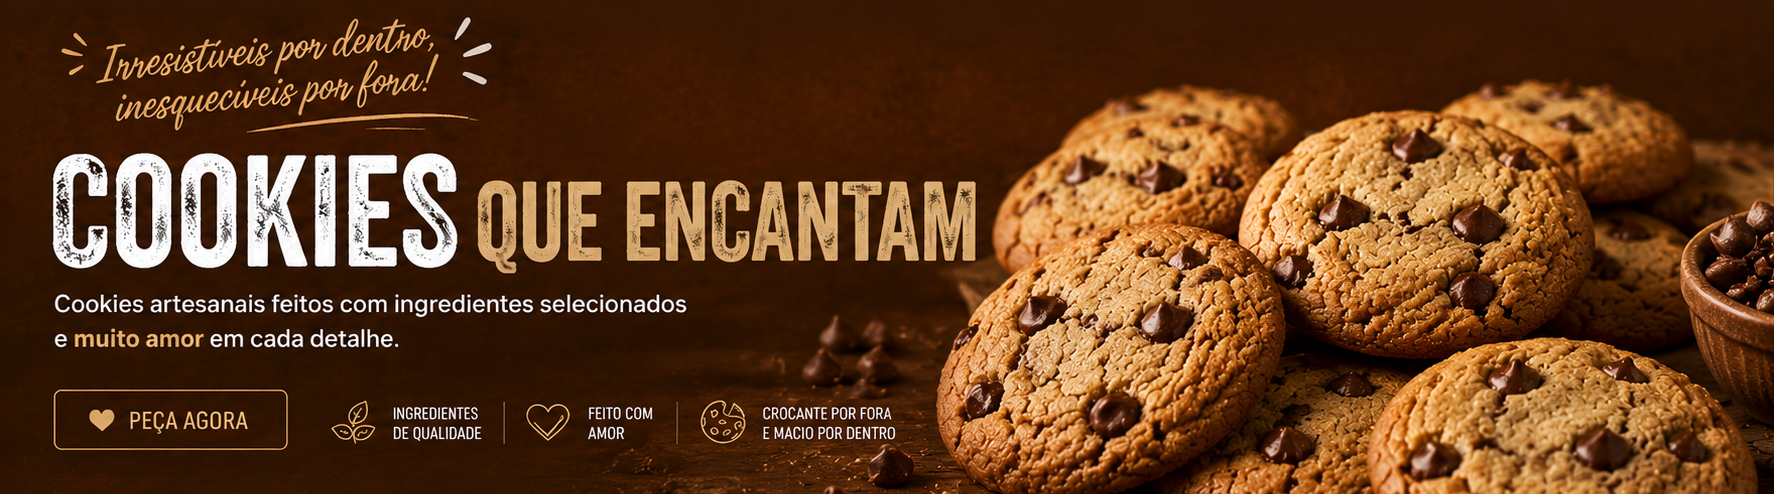
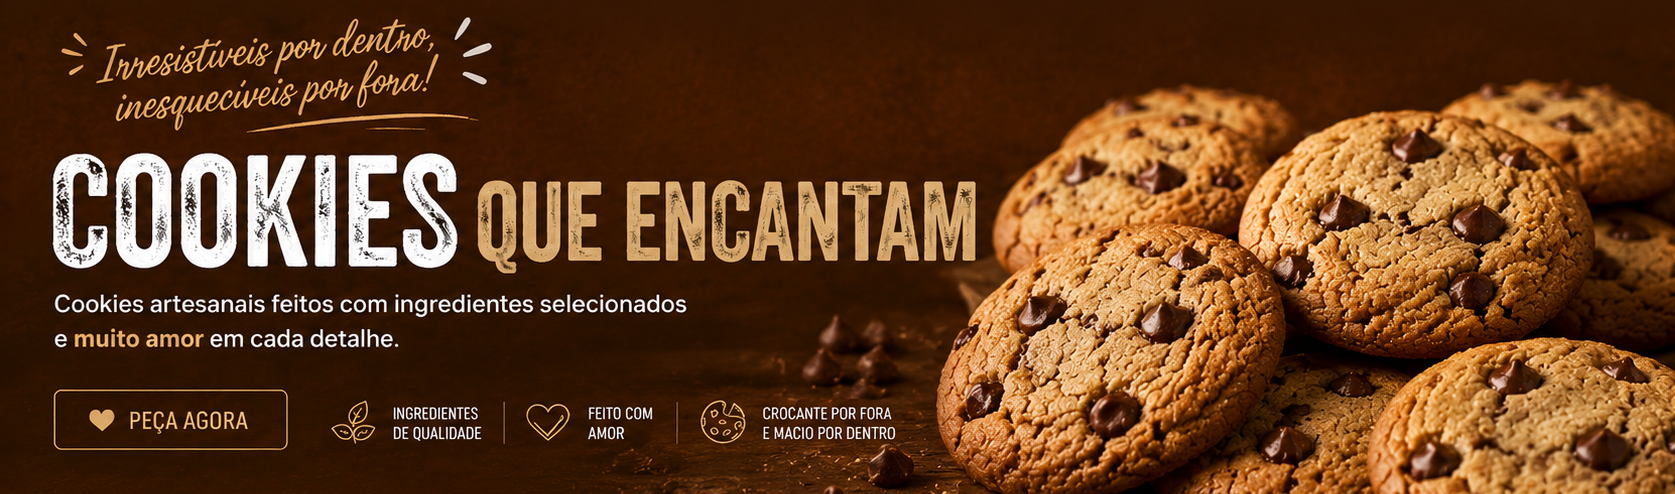
arrumei muita coisa vei

diff --git a/produtos.html b/produtos.html
@@ -21,7 +21,6 @@
             <nav class="nav-list">
                 <a href="index.html">Home</a>
                 <a href="produtos.html">Produtos</a>
-                <a href="index.html">Sabores</a>
                 <a href="sobre.html">Sobre Nós</a>
             </nav>
         </div>
@@ -31,33 +30,45 @@
             <a href=""><img class="icon" src="images/shopping_cart.svg" alt="cart"></a>
         </div>
     </header>
-    <img width="100%" src="images/banner_produtos.png" alt="">
+    <img width="100%" src="images/ChatGPT Image 19 de mai. de 2026, 16_31_55.png" alt="">
     <section class="flavors flavors-lightbg media-flavors">
         <h1>Em destaque</h1>
         <div class="row media-row">
             <div class="card card-lightbg">
-                <img src="images/chocolate-chip-cookie.webp" alt="cookie">
+                <div class="image-container">
+                    <img src="images/cookie1_fechado.jpg" alt="cookie">
+                    <img class="imagem-hover" src="images/cookie1_aberto.jpg" alt="">
+                </div>
                 <h1>Cookie</h1>
                 <h2>R$ 5,00</h2>
                 <button>Peça já</button>
             </div>
 
             <div class="card card-lightbg">
-                <img src="images/chocolate-chip-cookie.webp" alt="cookie">
+                <div class="image-container">
+                    <img src="images/cookie2_fechado.png" alt="cookie">
+                    <img class="imagem-hover" src="images/cookie2_aberto.png" alt="">
+                </div>
                 <h1>Cookie</h1>
                 <h2>R$ 5,00</h2>
                 <button>Peça já</button>
             </div>
 
             <div class="card card-lightbg">
-                <img src="images/chocolate-chip-cookie.webp" alt="cookie">
+                <div class="image-container">
+                    <img src="images/cookie1_fechado.jpg" alt="cookie">
+                    <img class="imagem-hover" src="images/cookie1_aberto.jpg" alt="">
+                </div>
                 <h1>Cookie</h1>
                 <h2>R$ 5,00</h2>
                 <button>Peça já</button>
             </div>
 
             <div class="card card-lightbg">
-                <img src="images/chocolate-chip-cookie.webp" alt="cookie">
+                <div class="image-container">
+                    <img src="images/cookie2_fechado.png" alt="cookie">
+                    <img class="imagem-hover" src="images/cookie2_aberto.png" alt="">
+                </div>
                 <h1>Cookie</h1>
                 <h2>R$ 5,00</h2>
                 <button>Peça já</button>
@@ -68,28 +79,40 @@
         <h1>Favoritos da Galera</h1>
         <div class="row media-row">
             <div class="card">
-                <img src="images/chocolate-chip-cookie.webp" alt="cookie">
+                <div class="image-container">
+                    <img src="images/cookie1_fechado.jpg" alt="cookie">
+                    <img class="imagem-hover" src="images/cookie1_aberto.jpg" alt="">
+                </div>
                 <h1>Cookie</h1>
                 <h2>R$ 5,00</h2>
                 <button>Peça já</button>
             </div>
 
             <div class="card">
-                <img src="images/chocolate-chip-cookie.webp" alt="cookie">
+                <div class="image-container">
+                    <img src="images/cookie2_fechado.png" alt="cookie">
+                    <img class="imagem-hover" src="images/cookie2_aberto.png" alt="">
+                </div>
                 <h1>Cookie</h1>
                 <h2>R$ 5,00</h2>
                 <button>Peça já</button>
             </div>
 
             <div class="card">
-                <img src="images/chocolate-chip-cookie.webp" alt="cookie">
+                <div class="image-container">
+                    <img src="images/cookie1_fechado.jpg" alt="cookie">
+                    <img class="imagem-hover" src="images/cookie1_aberto.jpg" alt="">
+                </div>
                 <h1>Cookie</h1>
                 <h2>R$ 5,00</h2>
                 <button>Peça já</button>
             </div>
 
             <div class="card">
-                <img src="images/chocolate-chip-cookie.webp" alt="cookie">
+                <div class="image-container">
+                    <img src="images/cookie2_fechado.png" alt="cookie">
+                    <img class="imagem-hover" src="images/cookie2_aberto.png" alt="">
+                </div>
                 <h1>Cookie</h1>
                 <h2>R$ 5,00</h2>
                 <button>Peça já</button>
@@ -100,34 +123,70 @@
         <h1>Trio de cookies</h1>
         <div class="row media-row">
             <div class="card card-lightbg">
-                <img src="images/chocolate-chip-cookie.webp" alt="cookie">
+                <div class="image-container">
+                    <img src="images/cookie1_fechado.jpg" alt="cookie">
+                    <img class="imagem-hover" src="images/cookie1_aberto.jpg" alt="">
+                </div>
                 <h1>Cookie</h1>
                 <h2>R$ 5,00</h2>
                 <button>Peça já</button>
             </div>
 
             <div class="card card-lightbg">
-                <img src="images/chocolate-chip-cookie.webp" alt="cookie">
+                <div class="image-container">
+                    <img src="images/cookie2_fechado.png" alt="cookie">
+                    <img class="imagem-hover" src="images/cookie2_aberto.png" alt="">
+                </div>
                 <h1>Cookie</h1>
                 <h2>R$ 5,00</h2>
                 <button>Peça já</button>
             </div>
 
             <div class="card card-lightbg">
-                <img src="images/chocolate-chip-cookie.webp" alt="cookie">
+                <div class="image-container">
+                    <img src="images/cookie1_fechado.jpg" alt="cookie">
+                    <img class="imagem-hover" src="images/cookie1_aberto.jpg" alt="">
+                </div>
                 <h1>Cookie</h1>
                 <h2>R$ 5,00</h2>
                 <button>Peça já</button>
             </div>
 
             <div class="card card-lightbg">
-                <img src="images/chocolate-chip-cookie.webp" alt="cookie">
+                <div class="image-container">
+                    <img src="images/cookie2_fechado.png" alt="cookie">
+                    <img class="imagem-hover" src="images/cookie2_aberto.png" alt="">
+                </div>
                 <h1>Cookie</h1>
                 <h2>R$ 5,00</h2>
                 <button>Peça já</button>
             </div>
         </div>
     </section>
+    <footer class="footer">
+        <div class="container-grid">
+            <div class="logo-footer">
+                <img src="./images/full_logo_bg_white.png" alt="">
+            </div>
+            <div class="contato">
+                <h1>Contato</h1>
+                <ul>
+                    <li><a href="mailto:dahoracookiecontato@gmail.com">dahoracookiecontato@gmail.com</a></li>
+                    <li><a href="mailto:dahoracookiesdev@gmail.com">dahoracookiesdev@gmail.com</a></li>
+                    <li><a href="https://www.google.com/maps/place/Tude+Bastos+-+S%C3%ADtio+do+Campo,+Praia+Grande+-+SP,+11725-490/@-23.9949609,-46.4149025,3a,75y,328.47h,73.2t/data=!3m7!1e1!3m5!1siTzcibDk7CBDhQhGCqaPvg!2e0!6shttps:%2F%2Fstreetviewpixels-pa.googleapis.com%2Fv1%2Fthumbnail%3Fcb_client%3Dmaps_sv.tactile%26w%3D900%26h%3D600%26pitch%3D16.803215966964302%26panoid%3DiTzcibDk7CBDhQhGCqaPvg%26yaw%3D328.47360966500037!7i16384!8i8192!4m6!3m5!1s0x94ce1c4f4bb08193:0xe3d31c993fbc75a!8m2!3d-23.9960111!4d-46.415083!16s%2Fg%2F123dm8mgt?entry=ttu&g_ep=EgoyMDI2MDUxMy4wIKXMDSoASAFQAw%3D%3D">Rua João Alves Correa - Tude Bastos - Praia Grande - SP</a></li>
+                    <li>Telefone de contato: <a href="tel:+551191111-2946">(11) 91111-2946</a></li>
+                </ul>
+            </div>
+
+            <div class="redes-sociais">
+                <h1>Nos acompanhe!</h1>
+                <ul>
+                    <li><a href="https://www.instagram.com/dahoracookie/" target="_blank">@dahoracookies</a></li>
+                    <li><a href="https://www.facebook.com/dahoracookie/" target="_blank">Facebook</a></li>
+                </ul>
+            </div>
+        </div>
+    </footer>
     <script src="js-interface/front.js"></script>
 </body>
 

diff --git a/sobre.html b/sobre.html
@@ -17,15 +17,11 @@
 <body>
     <header class="media-header">
         <img class="logo" src="images/full_logo_bg_white.png" alt="full_logo">
-<<<<<<< HEAD
-        <div class="menu-mobile medium" style="color: #000"> <span class="spantes">Menu</span>
-=======
+
         <div class="menu-mobile"><span class="spantes">Menu</span>
->>>>>>> d8871dade347b727ee79fb6a88782a65ac278515
             <nav class="nav-list">
                 <a href="index.html">Home</a>
                 <a href="produtos.html">Produtos</a>
-                <a href="index.html">Sabores</a>
                 <a href="sobre.html">Sobre Nós</a>
             </nav>
         </div>
@@ -37,9 +33,33 @@
     </header>
     <section class="sobre-container">
         <h1>Sobre nós</h1>
-
+        <iframe src="https://www.google.com/maps/embed?pb=!1m18!1m12!1m3!1d4091.4019268226484!2d-46.4155394449025!3d-23.994900188532387!2m3!1f0!2f0!3f0!3m2!1i1024!2i768!4f13.1!3m3!1m2!1s0x94ce1c4f44449187%3A0x4e9142e065f5854b!2sAv.%20Terezinha%20Amorim%20Barbosa%20-%20S%C3%ADtio%20do%20Campo%2C%20Praia%20Grande%20-%20SP%2C%2011725-490!5e0!3m2!1spt-BR!2sbr!4v1779220280962!5m2!1spt-BR!2sbr" width="600" height="450" style="border:0;" allowfullscreen="" loading="lazy" referrerpolicy="no-referrer-when-downgrade"></iframe>
     </section>
 </body>
+<footer class="footer">
+        <div class="container-grid">
+            <div class="logo-footer">
+                <img src="./images/full_logo_bg_white.png" alt="">
+            </div>
+            <div class="contato">
+                <h1>Contato</h1>
+                <ul>
+                    <li><a href="mailto:dahoracookiecontato@gmail.com">dahoracookiecontato@gmail.com</a></li>
+                    <li><a href="mailto:dahoracookiesdev@gmail.com">dahoracookiesdev@gmail.com</a></li>
+                    <li><a href="https://www.google.com/maps/place/Tude+Bastos+-+S%C3%ADtio+do+Campo,+Praia+Grande+-+SP,+11725-490/@-23.9949609,-46.4149025,3a,75y,328.47h,73.2t/data=!3m7!1e1!3m5!1siTzcibDk7CBDhQhGCqaPvg!2e0!6shttps:%2F%2Fstreetviewpixels-pa.googleapis.com%2Fv1%2Fthumbnail%3Fcb_client%3Dmaps_sv.tactile%26w%3D900%26h%3D600%26pitch%3D16.803215966964302%26panoid%3DiTzcibDk7CBDhQhGCqaPvg%26yaw%3D328.47360966500037!7i16384!8i8192!4m6!3m5!1s0x94ce1c4f4bb08193:0xe3d31c993fbc75a!8m2!3d-23.9960111!4d-46.415083!16s%2Fg%2F123dm8mgt?entry=ttu&g_ep=EgoyMDI2MDUxMy4wIKXMDSoASAFQAw%3D%3D">Rua João Alves Correa - Tude Bastos - Praia Grande - SP</a></li>
+                    <li>Telefone de contato: <a href="tel:+551191111-2946">(11) 91111-2946</a></li>
+                </ul>
+            </div>
+
+            <div class="redes-sociais">
+                <h1>Nos acompanhe!</h1>
+                <ul>
+                    <li><a href="https://www.instagram.com/dahoracookie/" target="_blank">@dahoracookies</a></li>
+                    <li><a href="https://www.facebook.com/dahoracookie/" target="_blank">Facebook</a></li>
+                </ul>
+            </div>
+        </div>
+    </footer>
 <script src="js-interface/front.js"></script>
 
 </html>

diff --git a/index.html b/index.html
@@ -20,7 +20,6 @@
             <nav class="nav-list">
                 <a href="index.html">Home</a>
                 <a href="produtos.html">Produtos</a>
-                <a href="index.html">Sabores</a>
                 <a href="sobre.html">Sobre Nós</a>
             </nav>
         </div>
@@ -43,8 +42,8 @@
         <div class="row media-row">
             <div class="card">
                 <div class="image-container">
-                    <img src="images/c068593b-acef-4ddd-bb29-e3a67beaedea.jpg" alt="cookie">
-                    <img class="imagem-hover" src="images/5e5ae1f6-3881-4035-a58e-6b690f812a89.jpg" alt="">
+                    <img src="images/cookie1_fechado.jpg" alt="cookie">
+                    <img class="imagem-hover" src="images/cookie1_aberto.jpg" alt="">
                 </div>
                 <h1>Cookie</h1>
                 <h2>R$ 5,00</h2>
@@ -53,8 +52,8 @@
 
             <div class="card">
                 <div class="image-container">
-                    <img src="images/c068593b-acef-4ddd-bb29-e3a67beaedea.jpg" alt="cookie">
-                    <img class="imagem-hover" src="images/5e5ae1f6-3881-4035-a58e-6b690f812a89.jpg" alt="">
+                    <img src="images/cookie2_fechado.png" alt="cookie">
+                    <img class="imagem-hover" src="images/cookie2_aberto.png" alt="">
                 </div>
                 <h1>Cookie</h1>
                 <h2>R$ 5,00</h2>
@@ -63,8 +62,8 @@
 
             <div class="card">
                 <div class="image-container">
-                    <img src="images/c068593b-acef-4ddd-bb29-e3a67beaedea.jpg" alt="cookie">
-                    <img class="imagem-hover" src="images/5e5ae1f6-3881-4035-a58e-6b690f812a89.jpg" alt="">
+                    <img src="images/cookie1_fechado.jpg" alt="cookie">
+                    <img class="imagem-hover" src="images/cookie1_aberto.jpg" alt="">
                 </div>
                 <h1>Cookie</h1>
                 <h2>R$ 5,00</h2>
@@ -73,8 +72,8 @@
 
             <div class="card">
                 <div class="image-container">
-                    <img src="images/c068593b-acef-4ddd-bb29-e3a67beaedea.jpg" alt="cookie">
-                    <img class="imagem-hover" src="images/5e5ae1f6-3881-4035-a58e-6b690f812a89.jpg" alt="">
+                    <img src="images/cookie2_fechado.png" alt="cookie">
+                    <img class="imagem-hover" src="images/cookie2_aberto.png" alt="">
                 </div>
                 <h1>Cookie</h1>
                 <h2>R$ 5,00</h2>

diff --git a/carrinho.html b/carrinho.html
@@ -20,7 +20,6 @@
       <nav class="nav-list">
         <a href="index.html">Home</a>
         <a href="produtos.html">Produtos</a>
-        <a href="index.html">Sabores</a>
         <a href="sobre.html">Sobre Nós</a>
       </nav>
       
@@ -31,6 +30,30 @@
       <a href=""><img class="icon" src="images/shopping_cart.svg" alt="cart"></a>
     </div>
   </header>
+  <footer class="footer">
+        <div class="container-grid">
+            <div class="logo-footer">
+                <img src="./images/full_logo_bg_white.png" alt="">
+            </div>
+            <div class="contato">
+                <h1>Contato</h1>
+                <ul>
+                    <li><a href="mailto:dahoracookiecontato@gmail.com">dahoracookiecontato@gmail.com</a></li>
+                    <li><a href="mailto:dahoracookiesdev@gmail.com">dahoracookiesdev@gmail.com</a></li>
+                    <li><a href="https://www.google.com/maps/place/Tude+Bastos+-+S%C3%ADtio+do+Campo,+Praia+Grande+-+SP,+11725-490/@-23.9949609,-46.4149025,3a,75y,328.47h,73.2t/data=!3m7!1e1!3m5!1siTzcibDk7CBDhQhGCqaPvg!2e0!6shttps:%2F%2Fstreetviewpixels-pa.googleapis.com%2Fv1%2Fthumbnail%3Fcb_client%3Dmaps_sv.tactile%26w%3D900%26h%3D600%26pitch%3D16.803215966964302%26panoid%3DiTzcibDk7CBDhQhGCqaPvg%26yaw%3D328.47360966500037!7i16384!8i8192!4m6!3m5!1s0x94ce1c4f4bb08193:0xe3d31c993fbc75a!8m2!3d-23.9960111!4d-46.415083!16s%2Fg%2F123dm8mgt?entry=ttu&g_ep=EgoyMDI2MDUxMy4wIKXMDSoASAFQAw%3D%3D">Rua João Alves Correa - Tude Bastos - Praia Grande - SP</a></li>
+                    <li>Telefone de contato: <a href="tel:+551191111-2946">(11) 91111-2946</a></li>
+                </ul>
+            </div>
+
+            <div class="redes-sociais">
+                <h1>Nos acompanhe!</h1>
+                <ul>
+                    <li><a href="https://www.instagram.com/dahoracookie/" target="_blank">@dahoracookies</a></li>
+                    <li><a href="https://www.facebook.com/dahoracookie/" target="_blank">Facebook</a></li>
+                </ul>
+            </div>
+        </div>
+    </footer>
   <script src="js-interface/front.js"></script>
 </body>
 

diff --git a/checkout.html b/checkout.html
@@ -14,7 +14,6 @@
       <nav class="nav-list">
         <a href="index.html">Home</a>
         <a href="produtos.html">Produtos</a>
-        <a href="index.html">Sabores</a>
         <a href="sobre.html">Sobre Nós</a>
       </nav>
     </div>
@@ -97,7 +96,30 @@
       </div>
     </div>
   </section>
+  <footer class="footer">
+        <div class="container-grid">
+            <div class="logo-footer">
+                <img src="./images/full_logo_bg_white.png" alt="">
+            </div>
+            <div class="contato">
+                <h1>Contato</h1>
+                <ul>
+                    <li><a href="mailto:dahoracookiecontato@gmail.com">dahoracookiecontato@gmail.com</a></li>
+                    <li><a href="mailto:dahoracookiesdev@gmail.com">dahoracookiesdev@gmail.com</a></li>
+                    <li><a href="https://www.google.com/maps/place/Tude+Bastos+-+S%C3%ADtio+do+Campo,+Praia+Grande+-+SP,+11725-490/@-23.9949609,-46.4149025,3a,75y,328.47h,73.2t/data=!3m7!1e1!3m5!1siTzcibDk7CBDhQhGCqaPvg!2e0!6shttps:%2F%2Fstreetviewpixels-pa.googleapis.com%2Fv1%2Fthumbnail%3Fcb_client%3Dmaps_sv.tactile%26w%3D900%26h%3D600%26pitch%3D16.803215966964302%26panoid%3DiTzcibDk7CBDhQhGCqaPvg%26yaw%3D328.47360966500037!7i16384!8i8192!4m6!3m5!1s0x94ce1c4f4bb08193:0xe3d31c993fbc75a!8m2!3d-23.9960111!4d-46.415083!16s%2Fg%2F123dm8mgt?entry=ttu&g_ep=EgoyMDI2MDUxMy4wIKXMDSoASAFQAw%3D%3D">Rua João Alves Correa - Tude Bastos - Praia Grande - SP</a></li>
+                    <li>Telefone de contato: <a href="tel:+551191111-2946">(11) 91111-2946</a></li>
+                </ul>
+            </div>
 
+            <div class="redes-sociais">
+                <h1>Nos acompanhe!</h1>
+                <ul>
+                    <li><a href="https://www.instagram.com/dahoracookie/" target="_blank">@dahoracookies</a></li>
+                    <li><a href="https://www.facebook.com/dahoracookie/" target="_blank">Facebook</a></li>
+                </ul>
+            </div>
+        </div>
+    </footer>
   <script src="js-interface/front.js"></script>
 </body>
 
